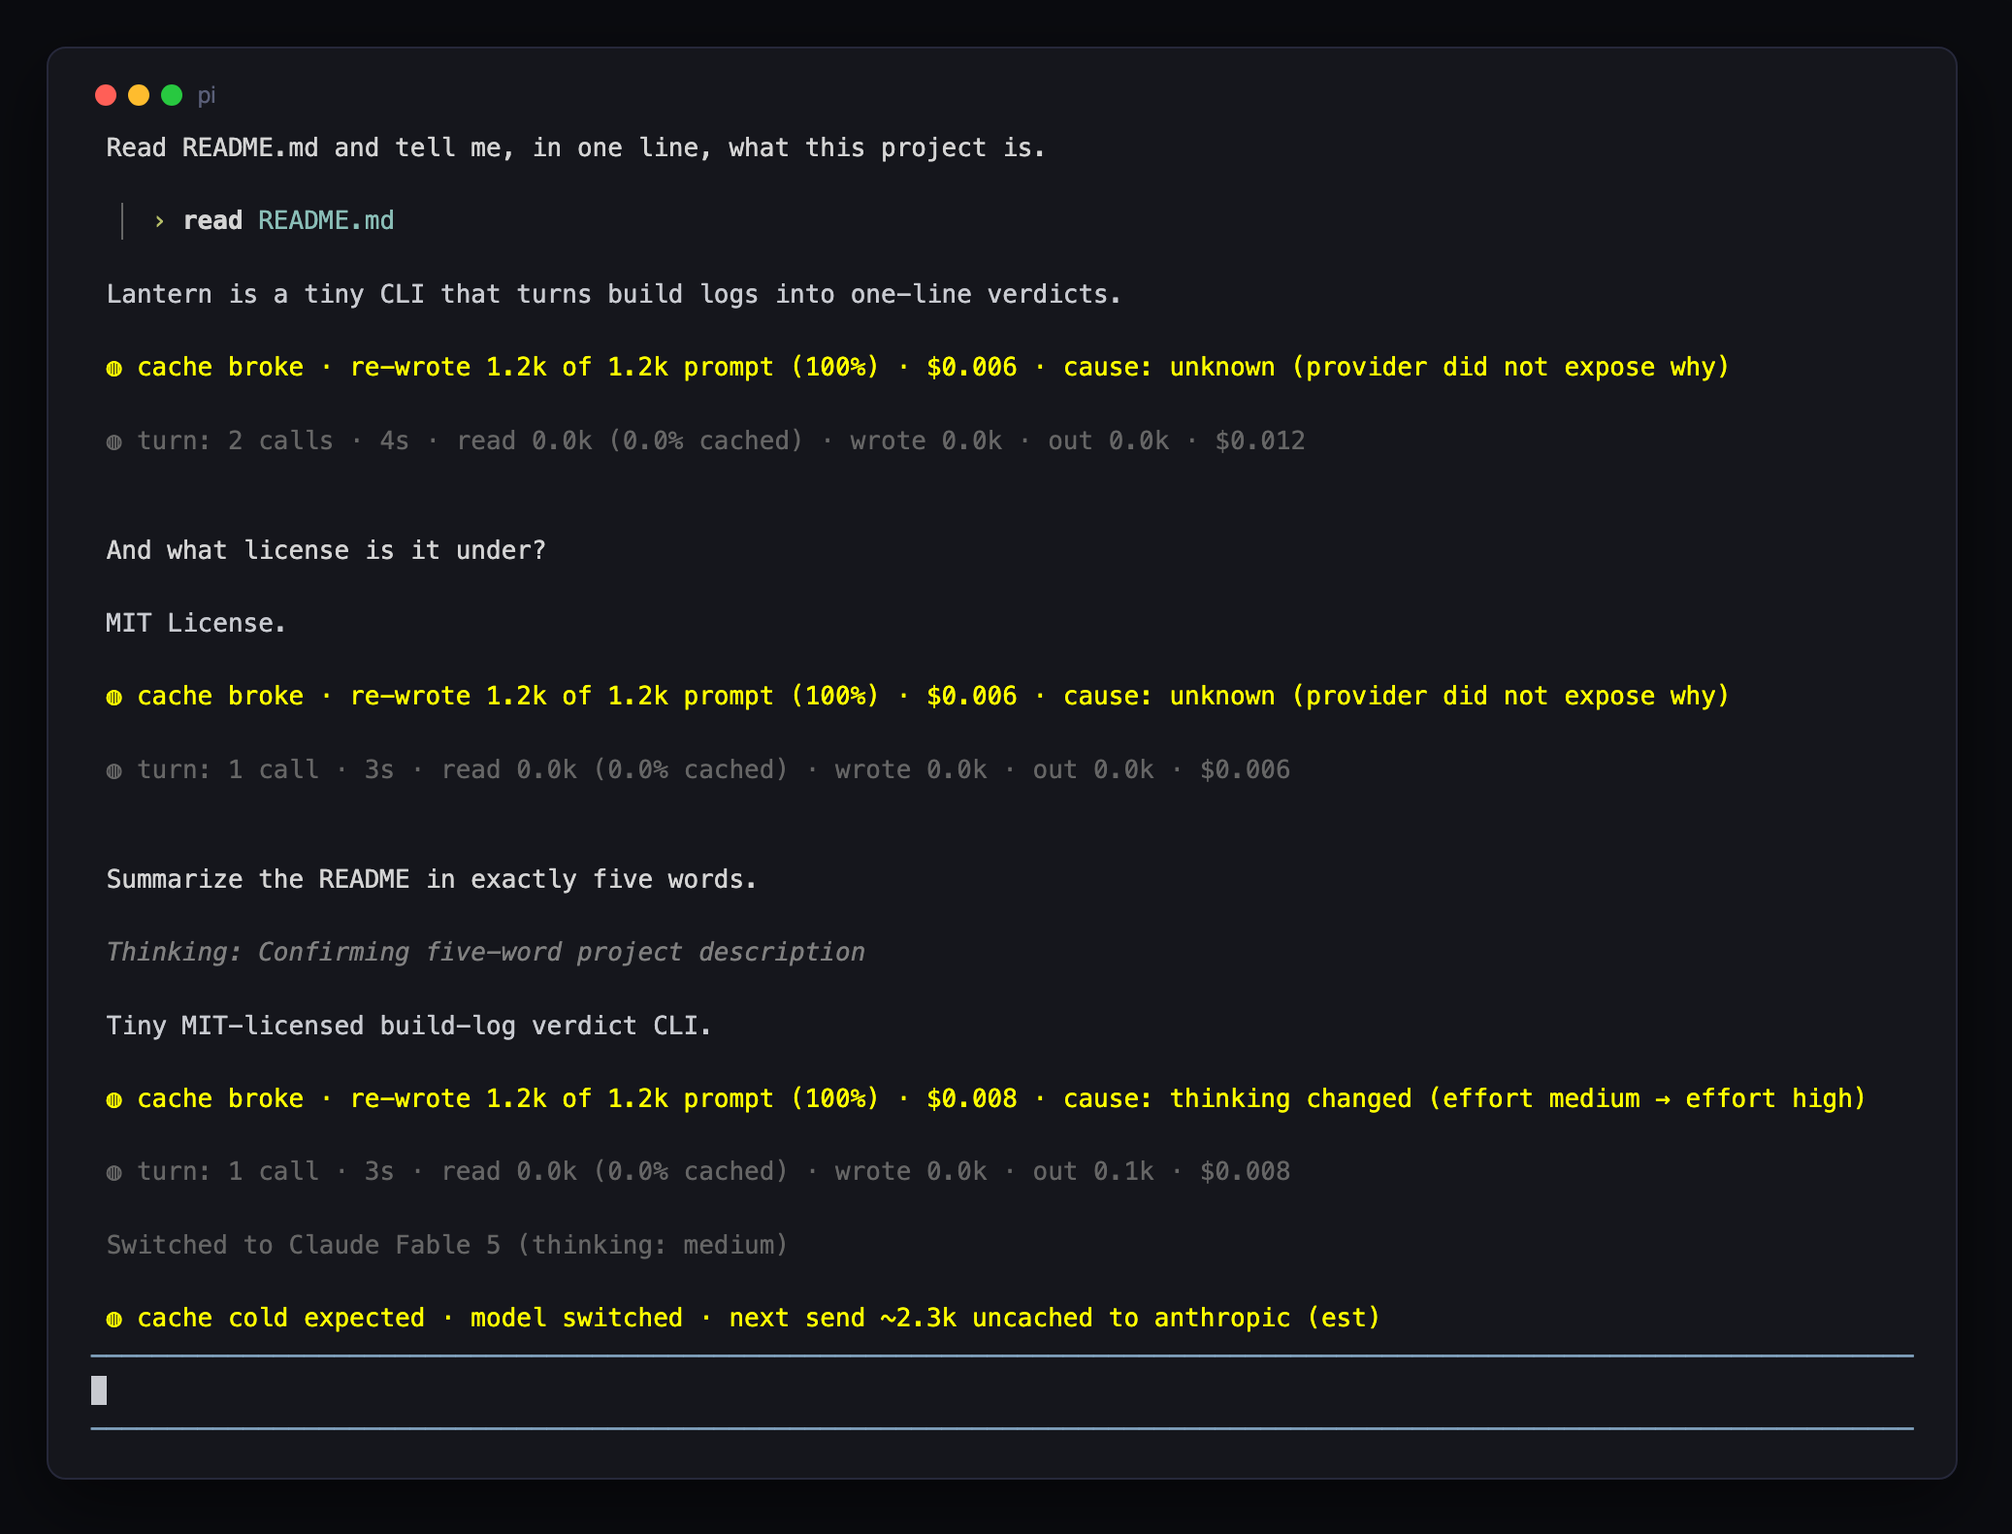
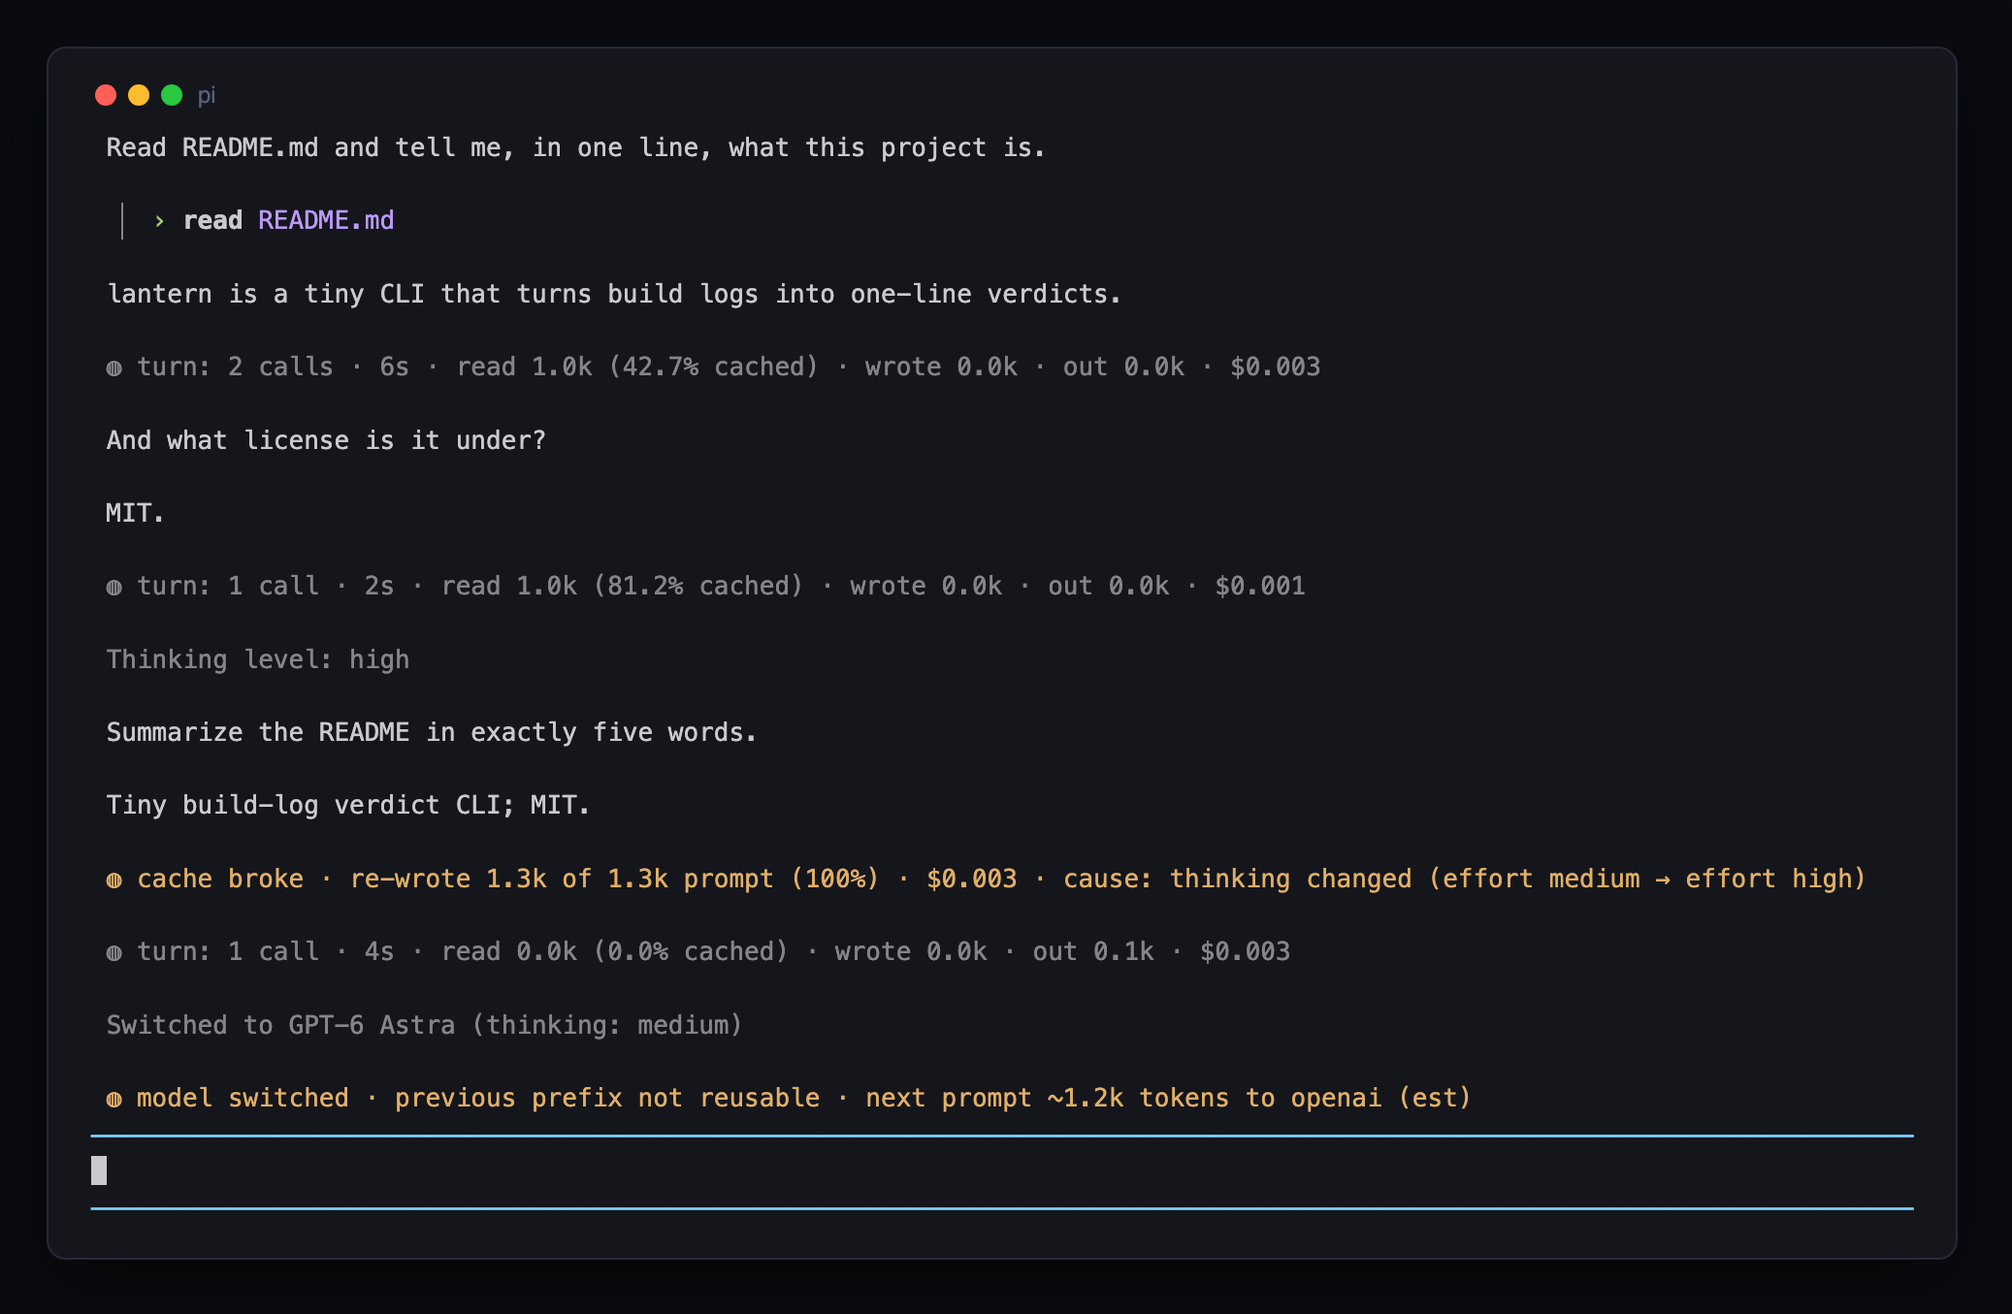
Describe model switches without claiming a cold target cache (#150)

diff --git a/tests/cachemire/model-switch.test.ts b/tests/cachemire/model-switch.test.ts
@@ -28,14 +28,14 @@ test("clock: model switch forecasts in the target currency, always marked est", 
   // Per-model caches everywhere: the last call's entry is dead for the new model, and
   // the stored count is in the old tokenizer's currency, so it is never shown.
   const switched = cacheClock({ now: MIN, lastRefreshedAt: 0, window: CONTRACT_5M, cachedTokens: 142_300, rewriteUsd: 2.67, modelSwitched: true, switchForecast: FORECAST });
-  assert.equal(switched.phase, "cold");
-  assert.equal(switched.text, "cache cold expected \u00b7 model switched \u00b7 next send ~96.4k uncached to openai-codex (est)");
+  assert.equal(switched.phase, "switch");
+  assert.equal(switched.text, "model switched \u00b7 previous prefix not reusable \u00b7 next prompt ~96.4k tokens to openai-codex (est)");
   // Gateway routes may transform the request upstream: the claim is demoted.
   const gateway = cacheClock({ now: MIN, lastRefreshedAt: 0, window: CONTRACT_5M, modelSwitched: true, switchForecast: { ...FORECAST, basis: "gateway" } });
-  assert.equal(gateway.text, "cache cold expected \u00b7 model switched \u00b7 next send ~96.4k uncached to openai-codex (rough est \u00b7 gateway route)");
+  assert.equal(gateway.text, "model switched \u00b7 previous prefix not reusable \u00b7 next prompt ~96.4k tokens to openai-codex (rough est \u00b7 gateway route)");
   // Without an estimate the number is withheld outright (and stays out of the old currency).
   const untagged = cacheClock({ now: MIN, lastRefreshedAt: 0, window: CONTRACT_5M, cachedTokens: 142_300, modelSwitched: true });
-  assert.equal(untagged.text, "cache cold expected \u00b7 model switched \u00b7 prompt size known at next send");
+  assert.equal(untagged.text, "model switched \u00b7 previous prefix not reusable \u00b7 prompt size known at next send");
 });
 
 test("clock: A\u2192B\u2192A switch-back defers to the target's own prior entry", () => {
@@ -50,7 +50,7 @@ test("clock: A\u2192B\u2192A switch-back defers to the target's own prior entry"
   assert.equal(back.phase, "warm-unknown");
   assert.equal(back.text, "cache may still be warm \u00b7 switched back to claude-opus-4-8 \u00b7 next send confirms");
   const backCold = cacheClock({ now: 5 * MIN, lastRefreshedAt: 0, window: CONTRACT_5M, modelSwitched: true, switchForecast: anthropicForecast });
-  assert.equal(backCold.phase, "cold", "the exact contract boundary is no longer warm");
+  assert.equal(backCold.phase, "switch", "the exact contract boundary is no longer warm, but target cache state is unobserved");
 
   const unknown = cacheClock({ now: MIN, lastRefreshedAt: 0, window: CONTRACT_5M, modelSwitched: true, switchForecast: { ...FORECAST, prior: { refreshedAt: 0, window: UNKNOWN } } });
   assert.equal(unknown.text, "cache state unknown \u00b7 model switched \u00b7 next send confirms");
@@ -82,7 +82,7 @@ test("clock: A\u2192B\u2192A switch-back defers to the target's own prior entry"
   }), 55 * MIN);
   assert.equal(
     cacheClock({ now: 60 * MIN, lastRefreshedAt: 0, window: UNKNOWN, modelSwitched: true, switchForecast: boundedForecast }).phase,
-    "cold",
+    "switch",
   );
 
   const maximum = { kind: "maximum", maxMs: 24 * 60 * MIN } as const;
@@ -99,7 +99,7 @@ test("clock: A\u2192B\u2192A switch-back defers to the target's own prior entry"
     switchForecast: extendedForecast,
   }), 23 * 60 * MIN);
   const atMaximum = { now: 24 * 60 * MIN, lastRefreshedAt: 0, window: UNKNOWN, modelSwitched: true, switchForecast: extendedForecast };
-  assert.equal(cacheClock(atMaximum).phase, "cold");
+  assert.equal(cacheClock(atMaximum).phase, "switch");
   assert.equal(nextClockUpdateMs(atMaximum), undefined);
 
   const compacted = cacheClock({ now: MIN, lastRefreshedAt: 0, window: CONTRACT_5M, modelSwitched: true, compacted: true, switchForecast: anthropicForecast });
@@ -128,7 +128,7 @@ test("break prediction: model switch sized in the target currency, or silent whe
   // Without a forecast: certain break, but the size is in the old tokenizer \u2014 withheld.
   const model = predictBreak({ ...base, gapMs: 1_000, window: CONTRACT_5M, fingerprintCause: modelCause })!;
   assert.equal(model.expectedRewriteTokens, undefined);
-  assert.equal(renderBreakingLine(model), "cache breaking \u00b7 re-writing the full prompt \u00b7 cause: model switched a \u2192 b");
+  assert.equal(renderBreakingLine(model), "sending the prompt \u00b7 cache read unknown \u00b7 cause: model switched a \u2192 b");
 
   // With a target-currency forecast: sized, est-marked, est-priced.
   const sized = predictBreak({
@@ -140,14 +140,14 @@ test("break prediction: model switch sized in the target currency, or silent whe
   assert.equal(sized.estimatedUsd, 1.807_5); // 96.4k at $18.75/M write, still an estimate
   assert.equal(
     renderBreakingLine(sized),
-    "cache breaking \u00b7 sending ~96.4k uncached to openai-codex (est \u00b7 ~$1.81) \u00b7 cause: model switched a \u2192 b",
+    "sending ~96.4k prompt tokens to openai-codex (est) \u00b7 cache read unknown \u00b7 cause: model switched a \u2192 b",
   );
   assert.equal(
     renderBreakingLine(predictBreak({
       ...base, gapMs: 1_000, window: CONTRACT_5M, fingerprintCause: modelCause,
       switchForecast: { estTokens: 96_400, basis: "gateway", priorMayBeWarm: false, targetProvider: "openai-codex" },
     })!),
-    "cache breaking \u00b7 sending ~96.4k uncached to openai-codex (rough est \u00b7 gateway route \u00b7 ~$1.81) \u00b7 cause: model switched a \u2192 b",
+    "sending ~96.4k prompt tokens to openai-codex (rough est \u00b7 gateway route) \u00b7 cache read unknown \u00b7 cause: model switched a \u2192 b",
   );
 
   // A\u2192B\u2192A switch-back with the target's own contract entry still warm: no

diff --git a/tests/cachemire/model-switch-events.test.ts b/tests/cachemire/model-switch-events.test.ts
@@ -206,7 +206,8 @@ test("event flow: the model-switch forecast remains stable through send", async 
 
   await fire(probe, "session_start", {}, ctx);
   try {
-    assert.match(widgets.at(-1)!, /next send ~76\.9k/);
+    assert.match(widgets.at(-1)!, /next prompt ~76\.9k tokens/);
+    assert.doesNotMatch(widgets.at(-1)!, /cache cold|uncached/);
     entries.push({
       type: "message", id: "u2", parentId: "a1", timestamp: "2026-07-01T10:01:00.000Z",
       message: { role: "user", content: next, timestamp: 6_000 },
@@ -220,7 +221,8 @@ test("event flow: the model-switch forecast remains stable through send", async 
       ],
     } }, ctx);
     assert.equal(notifications.length, 1);
-    assert.match(notifications[0]!, /sending ~76\.9k uncached to anthropic \(est/);
+    assert.match(notifications[0]!, /sending ~76\.9k prompt tokens to anthropic \(est\) · cache read unknown/);
+    assert.doesNotMatch(notifications[0]!, /cache breaking|uncached/);
   } finally {
     await fire(probe, "session_shutdown", {});
   }
@@ -335,7 +337,7 @@ test("event flow: model_select flips the clock before any send, and back again",
     } }, ctx);
     const line = widgets.at(-1)!;
     assert.match(line, /model switched/, "the pre-send widget must flip on model_select");
-    assert.match(line, /next send ~[\d.]+k uncached to openai-codex/, "sized in the target's own currency");
+    assert.match(line, /next prompt ~[\d.]+k tokens to openai-codex/, "sized in the target's own currency");
     // Switching back before any send revives the old entry: the switch state clears.
     await fire(probe, "model_select", { model: ctx.model }, ctx);
     assert.doesNotMatch(widgets.at(-1)!, /model switched/);

diff --git a/extensions/pi-cachemire/clock.ts b/extensions/pi-cachemire/clock.ts
@@ -16,7 +16,7 @@ function warningLeadMs(window: Extract<CacheWindow, { kind: "contract" }>): numb
 }
 
 export interface ClockState {
-  phase: "idle" | "closing" | "cold" | "stale" | "warm-unknown";
+  phase: "idle" | "closing" | "cold" | "stale" | "warm-unknown" | "switch";
   text: string;
 }
 
@@ -66,13 +66,14 @@ export function cacheClock(input: ClockInput): ClockState {
       }
     }
     if (forecast?.estTokens === undefined) {
-      return { phase: "cold", text: "cache cold expected \u00b7 model switched \u00b7 prompt size known at next send" };
+      return { phase: "switch", text: "model switched \u00b7 previous prefix not reusable \u00b7 prompt size known at next send" };
     }
-    // BLUF (design language §7): the consequence first, in the target currency.
+    // The old model's entry cannot carry over, but the target may already have a
+    // matching prefix. Size is an estimate; cache reads need provider usage.
     const confidence = forecast.basis === "gateway" ? "rough est \u00b7 gateway route" : "est";
     return {
-      phase: "cold",
-      text: `cache cold expected \u00b7 model switched \u00b7 next send ~${compactCount(forecast.estTokens)} uncached` +
+      phase: "switch",
+      text: `model switched \u00b7 previous prefix not reusable \u00b7 next prompt ~${compactCount(forecast.estTokens)} tokens` +
         ` to ${forecast.targetProvider} (${confidence})`,
     };
   }

diff --git a/extensions/pi-cachemire/render.ts b/extensions/pi-cachemire/render.ts
@@ -25,6 +25,15 @@ export function renderRunSummary(run: RunAggregate, endedAt: number): string {
 }
 
 export function renderBreakingLine(prediction: BreakPrediction): string {
+  if (prediction.cause.kind === "model") {
+    const estimate = prediction.estimatedRewriteTokens === undefined ? "the prompt" :
+      `~${compactCount(prediction.estimatedRewriteTokens)} prompt tokens`;
+    const basis = prediction.estimatedRewriteTokens === undefined ? "" :
+      ` (${prediction.estimateBasis === "gateway" ? "rough est \u00b7 gateway route" : "est"})`;
+    return `sending ${estimate}` +
+      `${prediction.targetProvider === undefined ? "" : ` to ${prediction.targetProvider}`}${basis}` +
+      ` \u00b7 cache read unknown \u00b7 cause: ${prediction.cause.detail}`;
+  }
   let size: string;
   if (prediction.expectedRewriteTokens) {
     size = ` \u00b7 re-writing ~${compactCount(prediction.expectedRewriteTokens)}` +

diff --git a/tests/cachemire/cache-warming-events.test.ts b/tests/cachemire/cache-warming-events.test.ts
@@ -34,7 +34,7 @@ test("a cache-warming payload hook without context cannot replace real-call evid
       system: [{ type: "text", text: "a real changed request", cache_control: { type: "ephemeral" } }],
     });
     assert.equal(host.ui.notifications.length, 1, "the next context-armed request still diagnoses its own change");
-    assert.match(host.ui.notifications[0]!, /cache breaking/);
+    assert.match(host.ui.notifications[0]!, /cause: model switched/);
   } finally {
     await host.dispose();
     project.dispose();

diff --git a/extensions/pi-cachemire/forecast.ts b/extensions/pi-cachemire/forecast.ts
@@ -63,7 +63,7 @@ export function computeSwitchForecast(args: {
     history = convertToLlm(buildSessionContext(args.entries, args.activeLeafId).messages) as unknown as ForecastMessage[];
   } catch {
     // SAFETY: buildSessionContext/convertToLlm are pi seams; a shape drift must degrade
-    // to an unsized "cold expected" clock, never break the model switch itself.
+    // to an unsized model-switch clock, never break the model switch itself.
   }
   if (history) {
     const prompt = forecastTargetPrompt({

diff --git a/docs/design-language.md b/docs/design-language.md
@@ -212,22 +212,23 @@ Anomaly thresholds tint the quantity suffix or the glyph, never the body:
   system-prefix change made by the reload remains observable. The intentional suffix
   divergence is ordinary prefix growth; withhold its estimate until provider usage makes
   the new request exact
-- a model switch re-prices the conversation; the wording leads with the consequence
-  (the whole prompt goes uncached to the new provider): `cache cold expected · model
-  switched · next send ~32.4k uncached to anthropic (est)`. The headline is the
-  estimate of canonical history in the target model's currency. It remains stable
-  through the send while the provider payload supplies cache evidence. The next user
-  message or a gateway rewrite can change the exact result. The estimate is never
-  rescaled from a source-model bill: token density is not transferable across
-  tokenizers, and the source bill may describe an earlier request.
+- a model switch re-prices the conversation and makes the last model's cache entry
+  ineligible, but says nothing about the target model's cache state. The clock says
+  `model switched · previous prefix not reusable · next prompt ~32.4k tokens to
+  anthropic (est)`. The headline is the estimate of canonical history in the target
+  model's currency. It remains stable through the send while the provider payload
+  supplies cache evidence. The next user message or a gateway rewrite can change the
+  exact result. The estimate is never rescaled from a source-model bill: token density
+  is not transferable across tokenizers, and the source bill may describe an earlier
+  request.
   Switch-back warmth anchors require exact provider, API and model identity plus an
   active TTL or minimum, including the minimum phase of a bounded window. Unknown
   retention, including the middle of a bounded window, makes no warmth claim. The
-  send-time notice keeps the grammar in progressive tense: `cache breaking · sending
-  ~32.4k uncached to anthropic (est · ~$0.41) · cause: model switched
-  openai-codex/gpt-5.6-sol → anthropic/claude-fable-5`; gateway routes use `(rough est ·
-  gateway route)`. The resolved line stays past tense and provider-exact (`cache broke ·
-  re-wrote 28.2k …`). Resolution
+  send-time notice keeps the grammar in progressive tense without predicting a cache
+  miss: `sending ~32.4k prompt tokens to anthropic (est) · cache read unknown · cause:
+  model switched openai-codex/gpt-5.6-sol → anthropic/claude-fable-5`; gateway routes use
+  `(rough est · gateway route)`. The resolved line stays past tense and provider-exact
+  (`cache broke · re-wrote 28.2k …`). Resolution
   obeys the same currency rule: the pre-switch expectation is denominated in the
   old model's tokenizer, so a switched call is classified and rendered against its
   own billed prompt only. A switched send that lands warm (a twin session's

diff --git a/extensions/pi-cachemire/README.md b/extensions/pi-cachemire/README.md
@@ -16,7 +16,9 @@ boundaries.
 
 Cachemire stays hidden while the cache is healthy or its retention is unknown. It
 appears above the input box only at a supported retention boundary, or when a change
-such as compaction or a model switch puts the next send at risk.
+such as compaction or a model switch puts the next send at risk. A model switch makes
+only the previous model's cache entry ineligible; the target may already have a cached
+prefix. Cachemire does not call that target cache cold before seeing provider usage.
 
 <!-- BEGIN GENERATED CACHE RETENTION: policy-table -->
 | Route | Retention evidence | Cachemire behaviour | Evidence source |
@@ -44,8 +46,9 @@ grace.
 The `~` re-write count starts from the prior billed prompt-side usage. It is not the
 whole next prompt, which adds your new message and other suffix content. After a model
 switch, Cachemire estimates canonical history in the new model's tokenizer and keeps
-that estimate through send. A new message or gateway rewrite can make the eventual
-provider count differ.
+that estimate through send. It does not substitute the previous model's billed count,
+which may use different tokenization or describe an earlier prompt. A new message,
+images or gateway rewrite can make the eventual provider count differ.
 
 <!-- BEGIN GENERATED CACHE RETENTION: clock-examples -->
 ```text

diff --git a/scripts/dev/screenshots/README.md b/scripts/dev/screenshots/README.md
@@ -9,7 +9,7 @@ rendering never is: the point is to show what the actual renderers produce.
 ```bash
 node scripts/dev/screenshots/rig.mjs traceline     # replays a crafted session (free)
 node scripts/dev/screenshots/rig.mjs contextimate  # real startup panel (free)
-node scripts/dev/screenshots/rig.mjs cachemire     # LIVE model calls (cents, gpt-5.6-sol)
+node scripts/dev/screenshots/rig.mjs cachemire     # LIVE model calls (cents, gpt-6-sol)
 node scripts/dev/screenshots/rig.mjs meantime      # LIVE model calls (cents, gpt-5.6-sol)
 ```
 
@@ -99,8 +99,8 @@ the full dump is a wall and one tree gives the sense.
 
 Cache behaviour needs live evidence, so this scenario makes **real model calls**:
 3 tiny turns against a small fixture README, then `/cache`. It uses
-`openai-codex/gpt-5.6-sol`, with its documented 30-minute minimum, switches to Anthropic
-without calling it to capture the model-switch warning, then switches back for the OpenAI
+`openai/gpt-6-sol`, with its documented 30-minute minimum, switches to GPT-6 Astra
+without calling it to capture the model-switch forecast, then switches back for the OpenAI
 ledger. Expect the table to vary: cold starts, hits and observed misses are authentic.
 An unexplained miss keeps an unknown cause.
 
